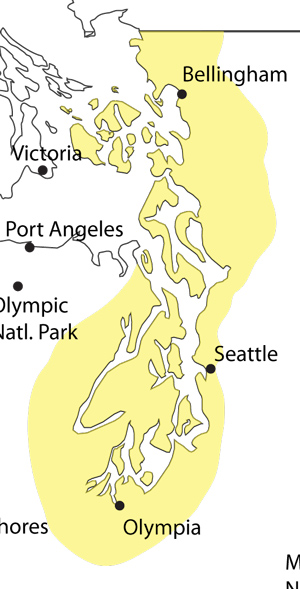
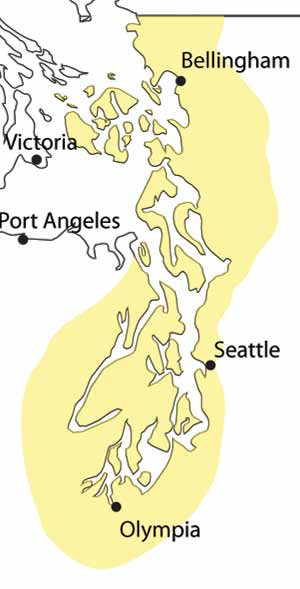
redrawn region borders

diff --git a/public/index.html b/public/index.html
@@ -124,34 +124,26 @@
       <div class="column" id="col2">
         <h3>Where to Go</h3>
           <ol class="locations">
-            <a href="locations/puget-sound.html"><li class="location inner-column">Puget Sound</li></a>
-            <a href="locations/sji.html"><li class="location inner-column sublocation">San Juan Islands</li></a>
-            <a href="locations/central-sound.html"><li class="location inner-column sublocation">Central Sound</li></a>
-            <a href="locations/south-sound.html"><li class="location inner-column sublocation">South Sound</li></a>
-            <a href="locations/hood-canal.html"><li class="location inner-column sublocation">Hood Canal</li></a>
+            <li class="location inner-column superlocation">USA</li>
+            <a href="locations/central-sound.html"><li class="location inner-column sublocation">Seattle Area</li></a>
+            <a href="locations/puget-sound.html"><li class="location inner-column sublocation">Puget Sound Islands</li></a>
+            <a href="locations/hood-canal.html"><li class="location inner-column sublocation">Kitsap & Hood Canal</li></a>
+            <a href="locations/hood-canal.html"><li class="location inner-column sublocation">Olympia Area</li></a>
           </ol>
           <ol class="locations">
-            <a href="locations/juan-fuca.html"><li class="location inner-column">Str. of Juan de Fuca</li></a>
-            <a href="locations/quimper.html"><li class="location inner-column sublocation">Quimper Peninsula</li</a>>
-            <a href="locations/angeles.html"><li class="location inner-column sublocation">Port Angeles</li></a>
-            <a href="locations/neah-bay.html"><li class="location inner-column sublocation">Neah Bay</li></a>
-            <a href="locations/victoria.html"><li class="location inner-column sublocation">Victoria</li></a>
-            <a href="locations/renfrew.html"><li class="location inner-column sublocation">Port Renfrew</li></a>
+            <a href="locations/sji.html"><li id="sji" class="location inner-column sublocation">San Juan Islands</li></a>
+            <a href="locations/sji.html"><li class="location inner-column sublocation">Olympic Peninsula</li></a>
+            <a href="locations/south-sound.html"><li class="location inner-column sublocation">Bellingham Area</li></a>
+            
+            <a href="locations/sji.html"><li class="location inner-column sublocation">Ocean Beaches</li></a>
           </ol>
           <ol class="locations">
-            <a href="locations/str-georgia.html"><li class="location inner-column">Strait of Georgia</li></a>
-            <a href="locations/courtenay.html"><li class="location inner-column sublocation">Courtenay</li></a>
-            <a href="locations/nanaimo.html"><li class="location inner-column sublocation">Nanaimo</li></a>
-            <a href="locations/gulf-islands.html"><li class="location inner-column sublocation">Gulf Islands</li></a>
-            <a href="locations/vancouver.html"><li class="location inner-column sublocation">Vancouver</li></a>
-            <a href="locations/jervis.html"><li class="location inner-column sublocation">Jervis Inlet</li></a>
-          </ol>
-          <ol class="locations">
-            <a href="locations/outer-coast.html"><li class="location inner-column">Outer Coast</li></a>
-            <a href="locations/ozette.html"><li class="location inner-column sublocation">Ozette</li></a>
-            <a href="locations/la-push.html"><li class="location inner-column sublocation">La Push</li></a>
-            <a href="locations/kalaloch.html"><li class="location inner-column sublocation">Kalaloch</li></a>
-            <a href="locations/ocean-beaches.html"><li class="location inner-column sublocation">Ocean Beaches</li></a>
+            <li class="location inner-column superlocation">Canada</li>
+            <a href="locations/quimper.html"><li class="location inner-column sublocation">Vancouver Island</li></a>
+            <a href="locations/angeles.html"><li class="location inner-column sublocation">Gulf Islands</li></a>
+            <a href="locations/victoria.html"><li class="location inner-column sublocation">Vancouver Area</li></a>
+            <a href="locations/neah-bay.html"><li class="location inner-column sublocation">Mainland Coast</li></a>
+            
           </ol>
       </div>
       <div class="column" id="col3">

diff --git a/public/locations/outer-coast.html b/public/locations/outer-coast.html
@@ -3,7 +3,7 @@
 <head>
   <meta charset="UTF-8">
 <meta name="keywords" content="Salish sea, puget sound, nature guide, seattle, washington, seasonal, naturalist, olympic peninsula, summer, fall, autumn, winter, spring, hiking, birding"/>
-  <title>SSG :: Puget Sound</title>
+  <title>SSG :: Outer Coast</title>
 <!-- CSS
 –––––––––––––––––––––––––––––––––––––––––––––––––– -->
 <link type="text/css" href="../css/app.css" rel="stylesheet"/>
@@ -14,7 +14,7 @@
 –––––––––––––––––––––––––––––––––––––––––––––––––– -->
 <script src="../js/deps/jquery.js"></script>
 <script src="../js/nav.js"></script>
-<script src="../js/icons.js"></script>
+<script src="../js/superwhere.js"></script>
 <!-- <script src="js/featured.js"></script> -->
 <!-- <script src="js/set-month.js"></script> -->
 </head>
@@ -33,32 +33,32 @@
   </header>
   
   <main>
+    <div id="map-box">
+      <img id="map" src="../images/WA-map-coast.jpg" height="667" width="500" alt="map of the Puget Sound basin">
+    </div>
     <h2><a class="next-place" href="str-georgia.html">« Str. of Georgia</a> Outer Coast <a class="next-place" href="puget-sound.html">Puget Sound »</a></h2>
     <section id="featured">
       <div id="featured-columns">
-        
-        <div class="things"><h3>What to See</h3>
-          <!-- <a href="#oystercatchers">
-            <button class="featured-for">
-              <div class="icons"></div>
-              <img src="../images/oystercatcher-button.jpg" height="150" width="150" alt="An oystercatcher on a lichen covered rock">
-              <h4>Oystercatchers</h4>
-              <p>Catch a glimpse of these charming, distinctive birds.</p>
-            </button>
-          </a> -->
-          
+        <div id="featured-columns">
+        <div class="regions">
+          <div id="lapush">
+            <h3>La Push</h3>
+            <p>From Neah Bay south to the Hoh River.</p>
+          </div>
+          <div id="kalaloch">
+            <h3>Kalaloch</h3>
+            <p>Ruby Beach to Point Grenville.</p>
+          </div>
+          <div id="shores">
+            <h3>Ocean Shores</h3>
+            <p>Moclips to Twin Harbors State Park.</p>
+          </div>
+          <div id="south">
+            <h3>Willapa Bay</h3>
+            <p>Grayland to Cape Disappointment.</p>
+          </div>
         </div>
-        <div class="times"><h3>When to Go</h3>
-          <!-- <a href="#saltcreek">
-            <button class="featured-for kids">
-              <div class="icons"></div>
-              <img src="../images/saltcreek-button.jpg" height="150" width="150" alt="A view of the beach at Salt Creek">
-              <h4>Salt Creek</h4>
-              <p>Explore some of the best tidepools in the state.</p>
-            </button>
-          </a> -->
-          
-        </div>
+      </div>
       </div>
     </section>
   </main>

diff --git a/public/locations/puget-sound.html b/public/locations/puget-sound.html
@@ -14,7 +14,8 @@
 –––––––––––––––––––––––––––––––––––––––––––––––––– -->
 <script src="../js/deps/jquery.js"></script>
 <script src="../js/nav.js"></script>
-<script src="../js/icons.js"></script>
+<!-- <script src="../js/icons.js"></script> -->
+<script src="../js/superwhere.js"></script>
 <!-- <script src="js/featured.js"></script> -->
 <!-- <script src="js/set-month.js"></script> -->
 </head>
@@ -33,29 +34,30 @@
   </header>
   
   <main>
+    <div id="map-box">
+      <img id="map" src="../images/SOUND-map.jpg" height="589" width="300" alt="map of the Puget Sound basin">
+    </div>
     <h2><a class="next-place" href="outer-coast.html">« Outer Coast</a> Puget Sound <a class="next-place" href="juan-fuca.html">Str. of Juan de Fuca »</a></h2>
     <section id="featured">
       <div id="featured-columns">
-        
         <div class="regions">
-          <h3>San Juan Islands</h3>
-          <p>Includes the San Juans, Bellingham Bay, the Skagit Flats, Mt Baker, etc.</p>
-          <h3>Central Sound</h3>
-          <p>Seattle, Elliot Bay, Bainbridge & Whidbey Islands, the I-90 Corridor, etc.</p>
-          <h3>South Sound</h3>
-          <p>Vashon Island, Olympia, Mt. Rainier, etc.</p>
-          <h3>Hood Canal & Kitsap</h3>
-          <p>North Kitsap, Hoodsport, Port Ludlow, Dabob Bay, Eastern Olympic Mountains, etc.</p>
-
-          
+          <div id="sji">
+            <h3>San Juan Islands</h3>
+            <p>Includes the San Juans, Bellingham Bay, the Skagit Flats, Mt Baker, etc.</p>
+          </div>
+          <div id="central">
+            <h3>Central Sound</h3>
+            <p>Seattle, Elliot Bay, Bainbridge & Whidbey Islands, the I-90 Corridor, etc.</p>
+          </div>
+          <div id="kitsap">
+            <h3>Hood Canal & Kitsap</h3>
+            <p>North Kitsap, Hoodsport, Port Ludlow, Dabob Bay, Eastern Olympic Mountains, etc.</p>
+          </div>
+          <div id="south">
+            <h3>South Sound</h3>
+            <p>Vashon Island, Olympia, Mt. Rainier, etc.</p>
+          </div>
         </div>
-        <div class="map">
-          <div id="map-box">
-          <iframe src="https://www.google.com/maps/embed?pb=!1m14!1m12!1m3!1d997188.2861549057!2d-122.65622420270557!3d47.88877371258547!2m3!1f0!2f0!3f0!3m2!1i1024!2i768!4f13.1!5e0!3m2!1sen!2sus!4v1437763638614" width="100%" height="500" frameborder="0" style="border:0" allowfullscreen></iframe>
-        </div>
-          
-        </div>
-        
       </div>
     </section>
   </main>

diff --git a/public/css/superwhere.css b/public/css/superwhere.css
@@ -23,9 +23,6 @@ main h3.superlocation {
 main h3.superlocation a:hover {
   text-decoration: underline;
 }
-.regions {
-  border-right: 1px solid #efefef;
-}
 .map h3, .regions h3 {
   color: #fff;
   letter-spacing: .05em;
@@ -42,65 +39,18 @@ main h3.superlocation a:hover {
 #featured-columns {
   width: 100%;
 }
-#featured-columns .map {
-  width: 27%;
-  float: left;
-  margin: 0 0 0 20px;
-}
 #featured-columns .regions {
-  width: 67%;
+  width: 60%;
   float: left;
   margin: 0 0 0 20px;
 }
 #map-box {
   border: 1px solid rgba(122, 188, 9, 1);
   border-radius: 15px;
-  margin: 10px 0 15px 0;
+  margin: 0 20px 15px 0;
   padding: 0;
   overflow: hidden;
-  position: relative;
-  height: 500px;
-  width: 95%;
-}
-#map-box iframe {
-  margin: 0;
-  padding: 0;
-}
-main .featured-for {
-  width: 95%;
-  padding: 20px;
-  clear: both;
-  border: 1px solid rgba(122, 188, 9, .7);/*leaf*/
-  border-radius: 15px;
-  margin-bottom: 15px;
-  background-color: none;
-  background: none;
-  text-align: left;
-}
-main .featured-for div.icons {
+  height: 667;
+  width: 500px;
   float: right;
-  width: 69px;
-  margin: 0px 0px 10px 10px;
-}
-main .featured-for img {
-  float: left;
-  margin-right: 10px;
-  border-radius: 5px;
-}
-main .featured-for div.icons img {
-  float: right;
-  margin: 0 0 10px 0;
-  border-radius: 0;
-}
-button.featured-for h4 {
-  font-size: 170%;
-  font-weight: bold;
-}
-button.featured-for p {
-  font-size: 150%;
-}
-a button.featured-for:hover {
-  border-color: rgba(122, 188, 9, 1);/*leaf*/
-  background-color: rgba(1, 156, 209, .1);/*blue*/
-  cursor: pointer;
 }

diff --git a/public/css/tabs.css b/public/css/tabs.css
@@ -51,7 +51,7 @@
   transition: width 0.4s;
 }
 .column h3 {
-  margin: 10px;
+  margin: 10px 10px 2px 10px;
 }
 .column ol {
   list-style-type: none;
@@ -84,26 +84,41 @@
 .column ol li:hover {
   cursor: pointer;
   background-color: #ddd;
+  border-color: #979797;
+}
+.column ol li.superlocation:hover {
+  cursor: default;
+  /*background-color: #ddd;*/
 }
 .column ol.locations {
-  width: 23%;
+  width: 29%;
 }
 .column ol.locations li.location {
-  /*display: block;*/
-  background-color: #bbb;
+  background-color: rgba(1,1,1,0);
   padding: 5px 6px 5px 5px;
-  border: 1px solid #bbb;
+  border: none;
   border-radius: 5px;
   margin: 1px;
   font-weight: bold;
+  /*color: #fff;*/
+  /*font-size: 110%;*/
+  letter-spacing: .1em;
 }
 .column ol.locations li.sublocation {
+  color: #000;
   font-weight: normal;
   background-color: #fff;
+  border: 1px solid #bbb;
+  font-size: 100%;
+  letter-spacing: normal;
 }
-.column ol.locations li:hover {
+#sji {
+  margin-top: 30px;
+}
+.column ol.locations li.sublocation:hover {
   /*cursor: pointer;*/
   background-color: #ddd;
+  border-color: #979797;
 }
 .column ol.attractions {
   width: 30%;

diff --git a/public/js/superwhere.js b/public/js/superwhere.js
@@ -1,0 +1,19 @@
+'use strict';
+$(function() {
+  var map = $('#map-box img');
+  $('#sji').on('mouseover', function() {
+    $('#map').attr('src', '../images/SOUND-map-sanjuans.jpg');
+  })
+  $('#central').on('mouseover', function() {
+    $('#map').attr('src', '../images/SOUND-map-csound.jpg');
+  })
+  $('#south').on('mouseover', function() {
+    $('#map').attr('src', '../images/SOUND-map-ssound.jpg');
+  })
+  $('#kitsap').on('mouseover', function() {
+    $('#map').attr('src', '../images/SOUND-map-kitsap.jpg');
+  })
+  $('.regions').on('mouseout', function() {
+    $('#map').attr('src', '../images/SOUND-map.jpg');
+  })
+});
